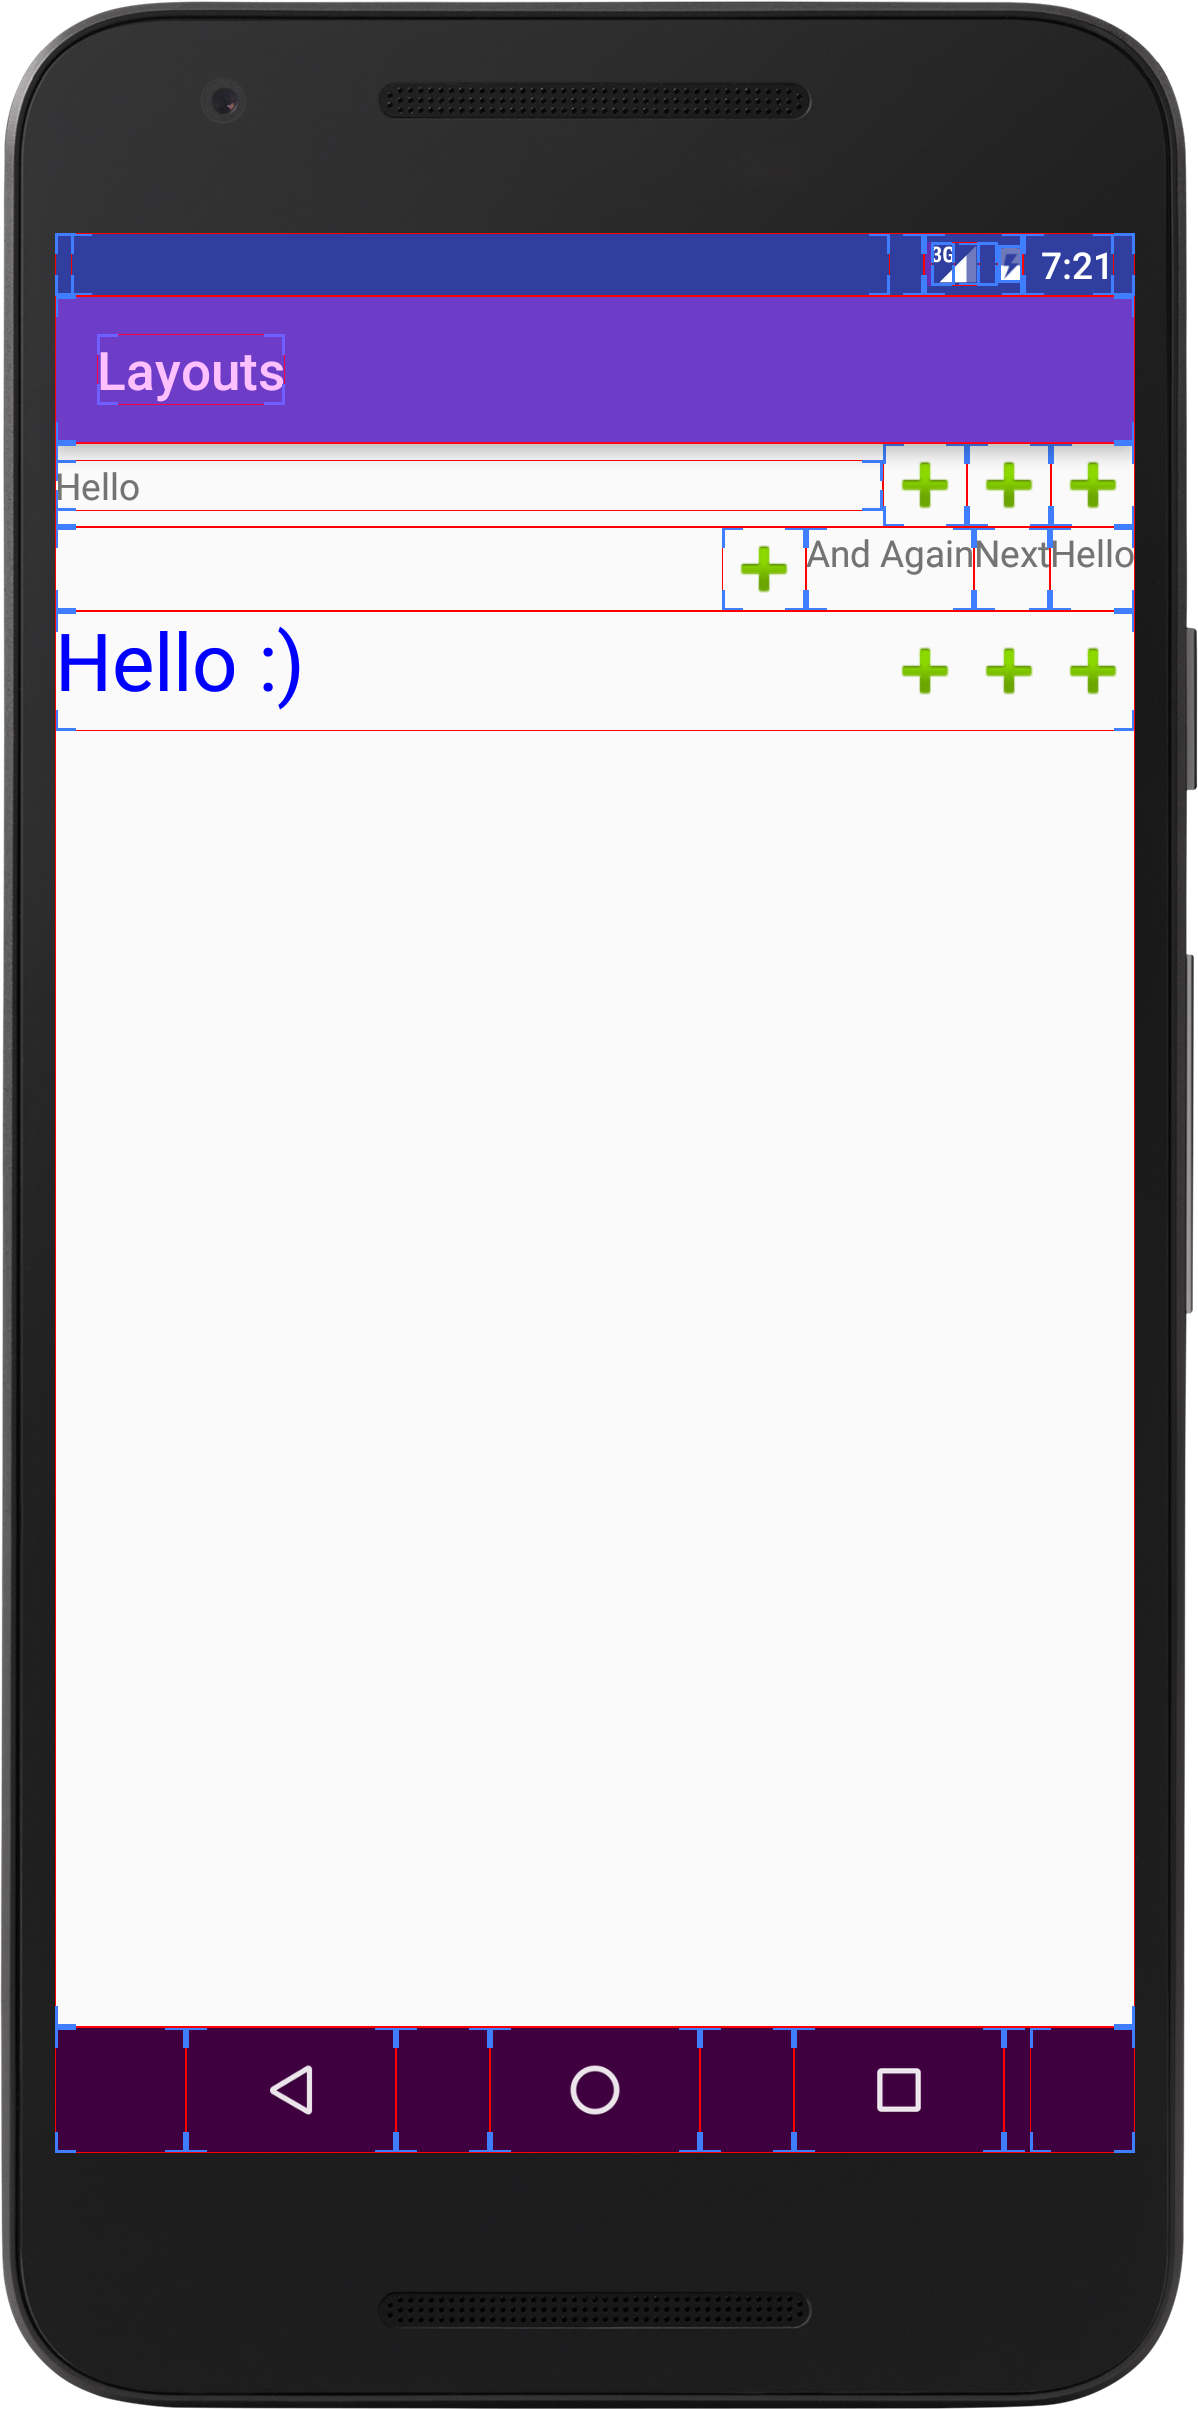
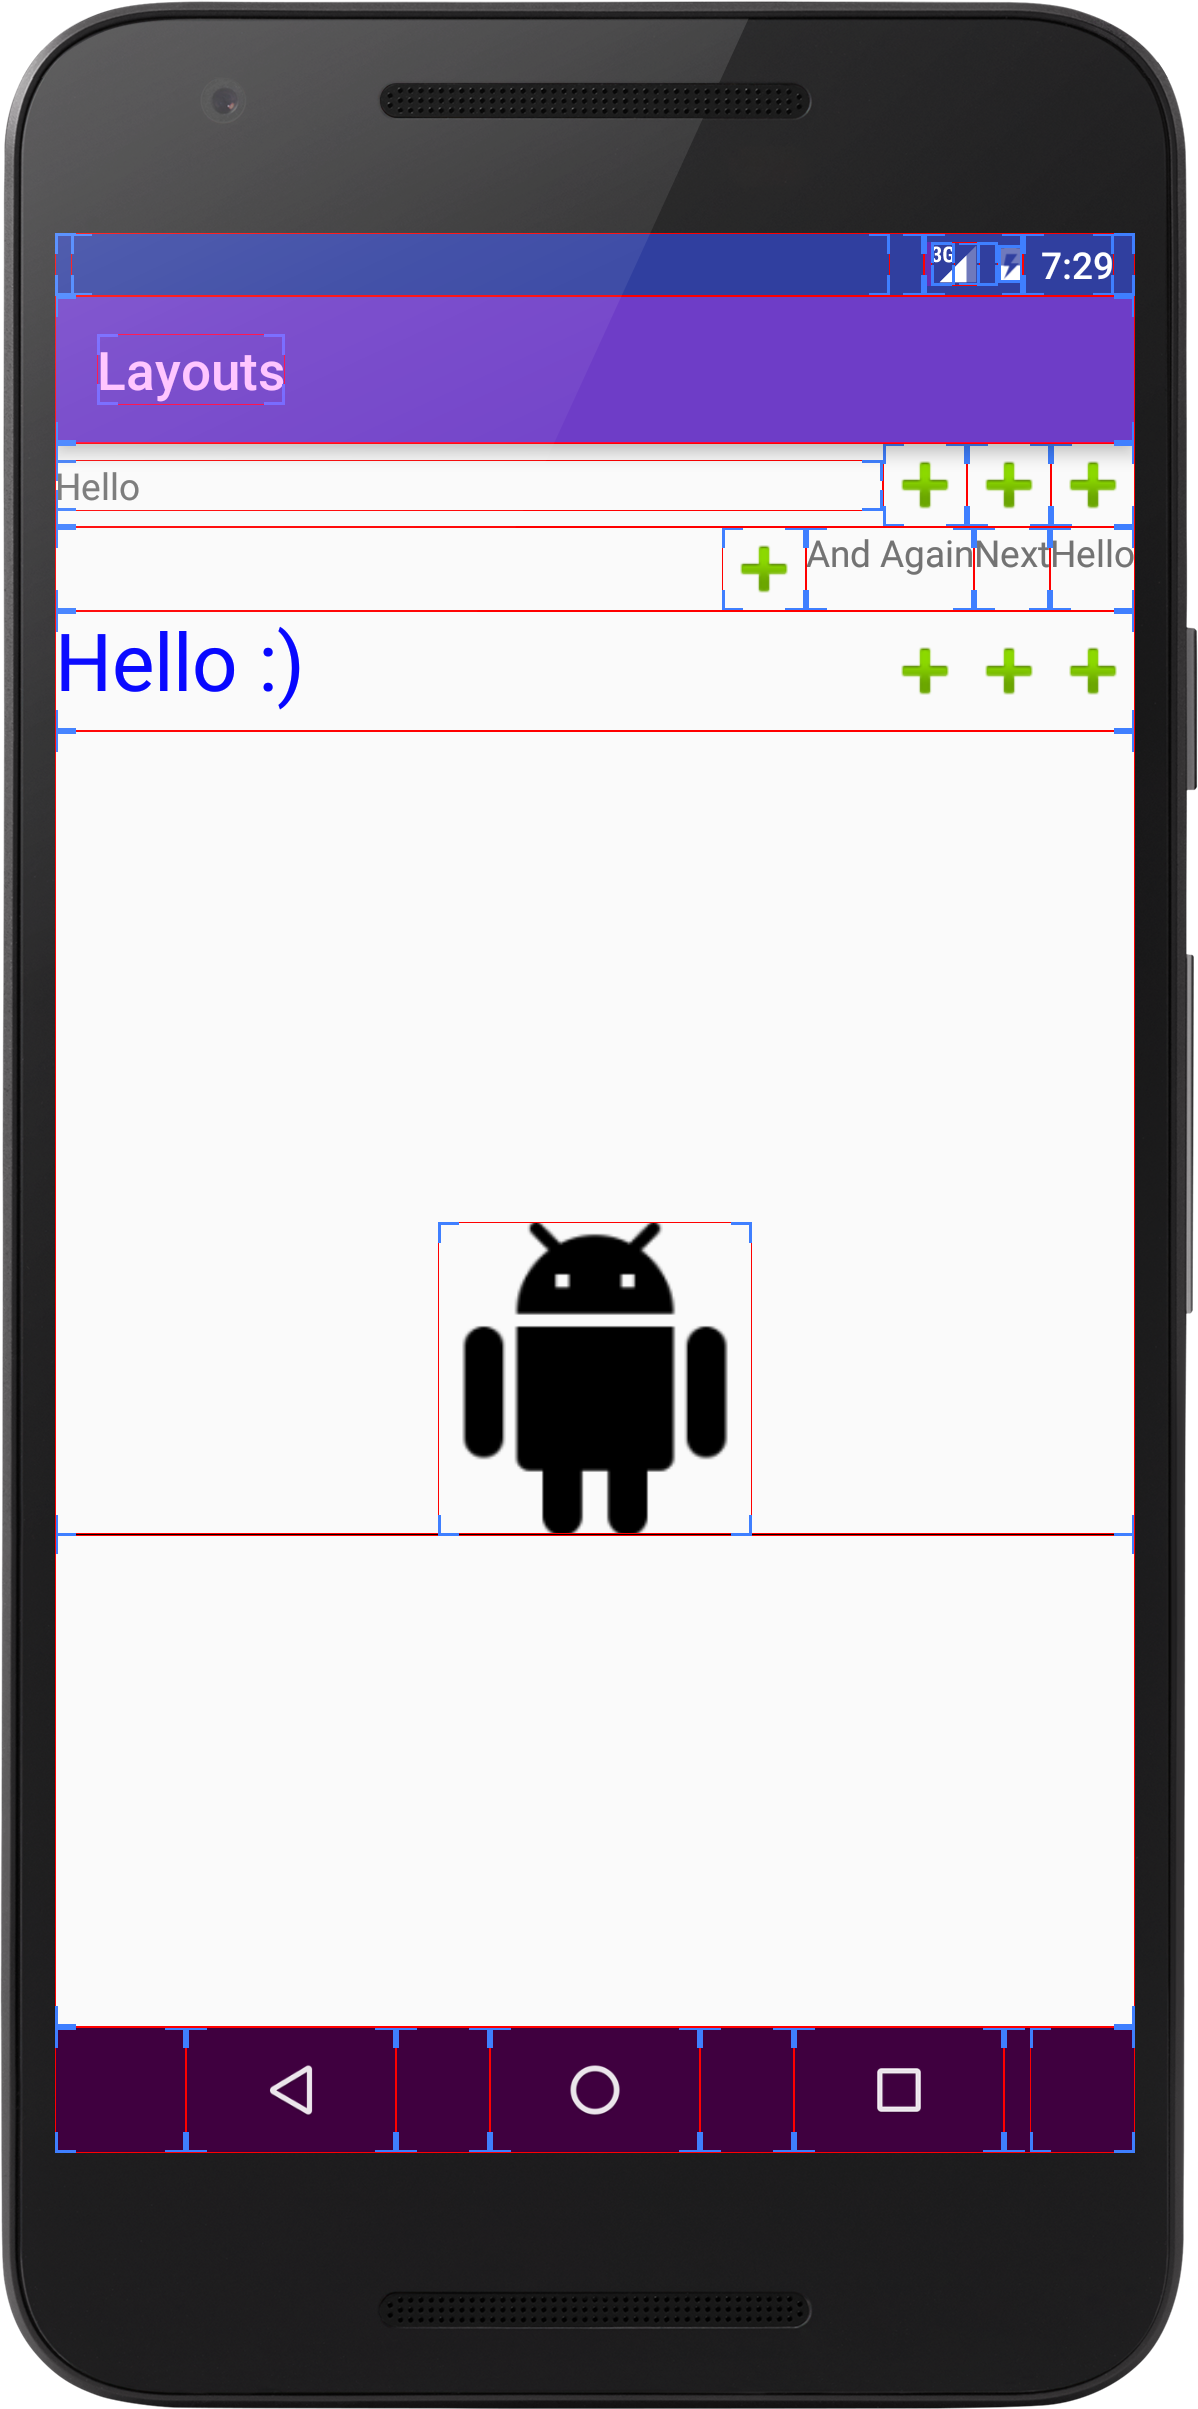
Update readme with new layout

Changed region(s): [[0.0, 0.0, 0.6177, 0.1557], [0.3706, 0.4981, 0.6177, 0.6538]]

diff --git a/README.md b/README.md
@@ -1,17 +1,17 @@
 # First try of own CustomView(Group)
 
 ## What is it?
-Just some examples of CustomViewGroups.
+Just some examples of CustomView(Groups).
 
 <img src="art/screenshot.png" width=auto height="450"/>
 
-The first is the [TextImageView](https://github.com/StefMa/CustomViews/blob/master/app/src/main/java/guru/stefma/layouts/view/TextImageView.java) which extends from ViewGroup and measure and layout it own childs which will be inflated in it.
-
-[RightToLeftLayout](https://github.com/StefMa/CustomViews/blob/master/app/src/main/java/guru/stefma/layouts/view/RightToLeftLayout.java) is a "fully" Android layout like a LinearLayout. You can use it in your XML like any other ViewGroups.
-The childs will be measured from right to left. Instead from left to right (like a LinearLayout).
-
-The last [TextImageFullyView](https://github.com/StefMa/CustomViews/blob/master/app/src/main/java/guru/stefma/layouts/view/TextImageFullyView.java) extends from View and put it "childs" via the onDraw(Canvas can) methods.
-Touched (or clicks) are detected via an OnTouchListener.
+* [TextImageView](https://github.com/StefMa/CustomViews/blob/master/app/src/main/java/guru/stefma/layouts/view/TextImageView.java) extends from `ViewGroup` and measure and layout it own childs which will be inflated in it.
+* [RightToLeftLayout](https://github.com/StefMa/CustomViews/blob/master/app/src/main/java/guru/stefma/layouts/view/RightToLeftLayout.java) is a android layout like a `LinearLayout`. You can use it in your XML like any other `ViewGroups`.
+The childs will be measured from right to left. Instead from left to right (like a LinearLayout with orientation horizontal).
+* [TextImageFullyView](https://github.com/StefMa/CustomViews/blob/master/app/src/main/java/guru/stefma/layouts/view/TextImageFullyView.java) extends from `View` and put it childs via the `onDraw(Canvas canvs)` method.
+Touches (or clicks) are detected via an OnTouchListener.
+* [IntroLayout](https://github.com/StefMa/CustomViews/blob/master/app/src/main/java/guru/stefma/layouts/view/IntroLayout.java) is like the `RightToLeftLayout` a layout which extends from `ViewGroup`.
+ It can contain 2 childs. The second will be put into the center (each - vertical and horizontal) from the layout size. The first child is centered in horizon too. But the bottom of it's height starts at the bottom of the second view.
 
 ## References
 * Medium Performance Part [1](https://medium.com/android-news/prefmatters-using-custom-views-in-android-to-improve-performance-part-1-4dc9bdd75396), [2](https://medium.com/android-news/perfmatters-introduction-to-custom-viewgroups-to-improve-performance-part-2-f14fbcd47c), [3](https://medium.com/android-news/perfmatters-building-a-custom-viewgroup-part-3-165dae1bb5ff)
